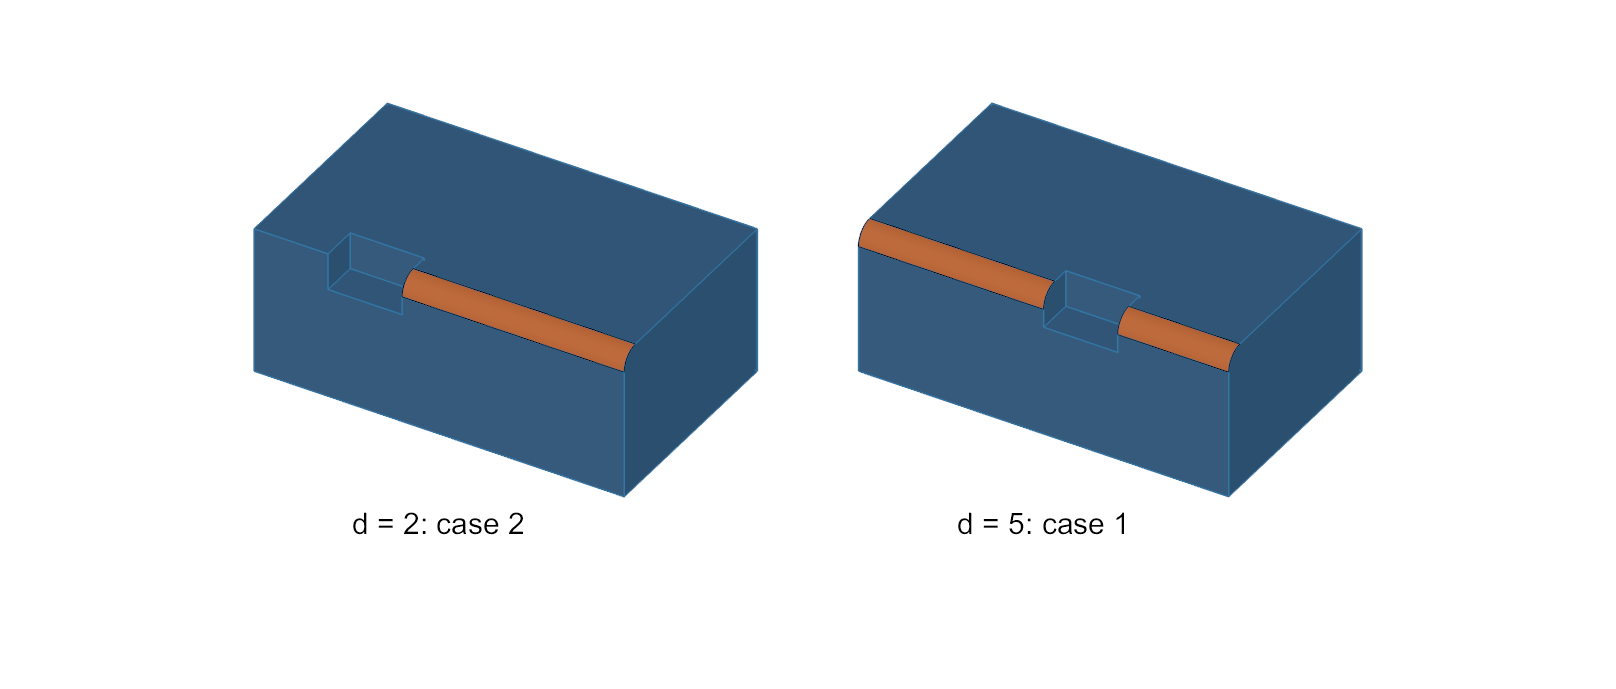
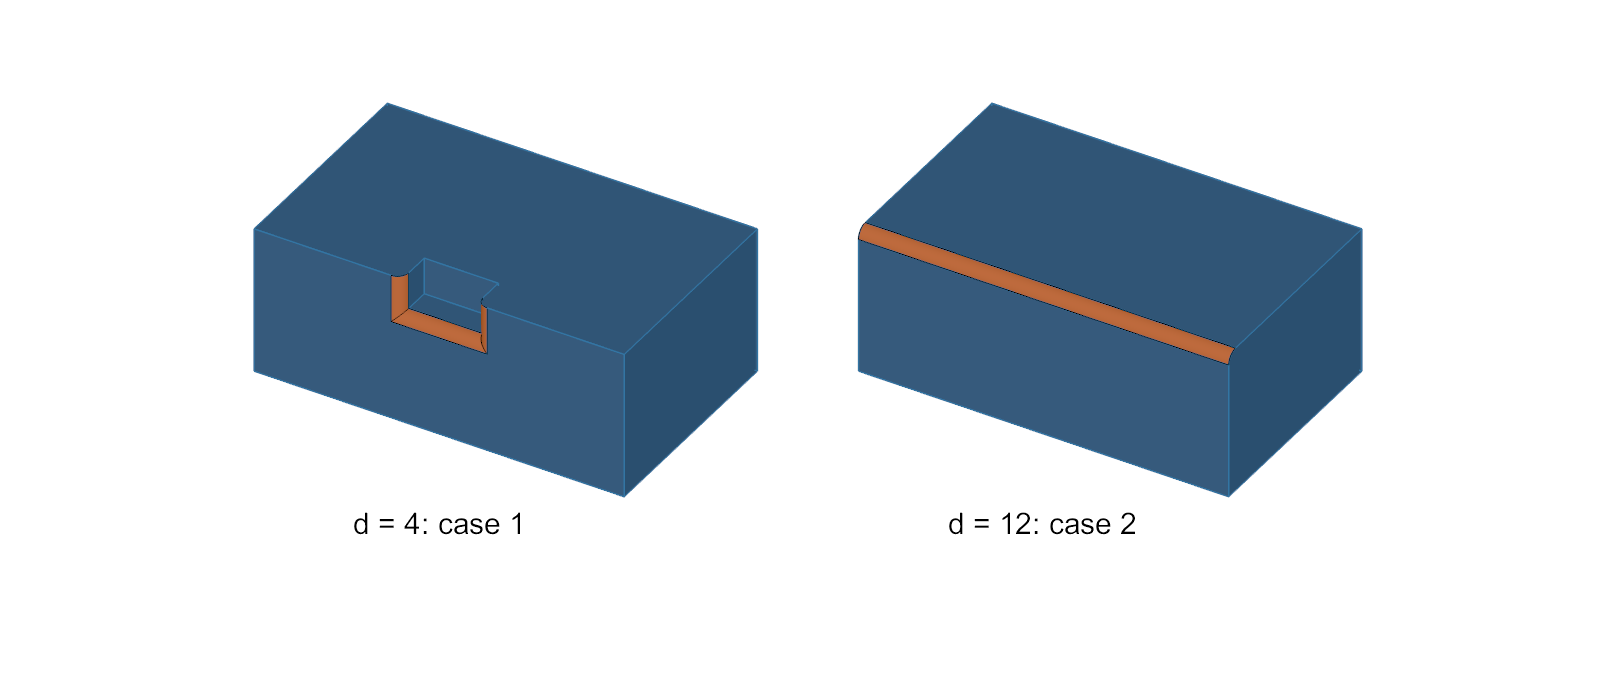
docs: formulate selection cases with predicates on the model
Cases are conditions on the model that can be formulated with any
predicate, not only with the parameters. Rework the example: case 1, the
box B cuts the edge X (a history predicate); case 2, it does not. Cases
are evaluated as Booleans and the selection of the one applying case is
used, so the constant ALWAYS/NEVER predicates are no longer needed. Also
refine the wording on why indices do not necessarily stay valid.

diff --git a/docs/examples/selection_cases_example.cpp b/docs/examples/selection_cases_example.cpp
@@ -1,5 +1,8 @@
-// Selection cases: L = (case_1 && selection_1) || (case_2 && selection_2)
+// Selection cases: L = (Case_1 and Selection_1) or (Case_2 and Selection_2)
 #include <cmath>
+#include <stdexcept>
+#include <utility>
+#include <vector>
 
 #include <BRepGProp.hxx>
 #include <BRepPrimAPI_MakeBox.hxx>
@@ -26,44 +29,65 @@ geoml::ShapePredicate is_face_at(int axis, double value)
     });
 }
 
-// A box with a notch of width 2 at position d in its frontal upper edge X.
-// Modelling intention:
-//   case 1 (d >= 3): fillet both pieces of X
-//   case 2 (d <  3): fillet only the piece of X right of the notch
+// Returns the selection of the one case that applies
+geoml::ShapePredicate select_case(std::vector<std::pair<bool, geoml::ShapePredicate>> const& cases)
+{
+    int n_applying = 0;
+    for (auto const& c : cases) {
+        n_applying += c.first ? 1 : 0;
+    }
+    if (n_applying != 1) {
+        throw std::logic_error("the cases are not mutually exclusive and exhaustive");
+    }
+    for (auto const& c : cases) {
+        if (c.first) {
+            return c.second;
+        }
+    }
+    throw std::logic_error("unreachable");
+}
+
+// A box B, moved along the frontal upper edge X of a box by d, is subtracted
+// from the box. Modelling intention:
+//   case 1, B cuts X:         fillet the edges of the notch on the front face
+//   case 2, B does not cut X: fillet X
 geoml::Shape make_part(double d)
 {
     geoml::Shape box = geoml::create_box(10., 6., 4.);
     geoml::Shape front = box.select_subshapes(is_face_at(1, 0.)).unique_element();
     geoml::Shape top = box.select_subshapes(is_face_at(2, 4.)).unique_element();
-    geoml::Shape right = box.select_subshapes(is_face_at(0, 10.)).unique_element();
     geoml::Shape X = box.select_subshapes(
         geoml::is_edge && geoml::is_subshape_of(front) && geoml::is_subshape_of(top)).unique_element();
 
-    geoml::Shape tool = BRepPrimAPI_MakeBox(gp_Pnt(d, -1., 3.), 2., 2., 2.).Shape();
-    geoml::Shape notched = box - tool;
+    geoml::Shape B = BRepPrimAPI_MakeBox(gp_Pnt(d, -1., 3.), 2., 2., 2.).Shape();
+    geoml::Shape result = box - B;
 
-    // Selections: the pieces of X, and the piece of X that touches the right face
-    geoml::Shape right_now =
-        notched.select_subshapes(geoml::is_face && geoml::is_descendent_of(right)).unique_element();
-    geoml::ShapePredicate pieces_of_X = geoml::is_edge && geoml::is_descendent_of(X);
-    geoml::ShapePredicate right_piece_of_X =
-        pieces_of_X && geoml::has_subshape_that(geoml::is_vertex && geoml::is_subshape_of(right_now));
+    // Cases, formulated with a history predicate: B cuts X if the result
+    // contains a modified descendent of X
+    bool case_1 = !result.select_subshapes(geoml::is_modified_descendent_of(X)).is_empty();
+    bool case_2 = !case_1;
 
-    // Cases: conditions on the parameter only, mutually exclusive and exhaustive
-    geoml::ShapePredicate case_1([d](geoml::Shape const&) { return d >= 3.; });
-    geoml::ShapePredicate case_2 = !case_1;
+    // Selections: the edges shared by the front face and the faces from B,
+    // and the edge X
+    geoml::Shape front_now =
+        result.select_subshapes(geoml::is_face && geoml::is_descendent_of(front)).unique_element();
+    geoml::Shape faces_from_B =
+        result.select_subshapes(geoml::is_face && geoml::is_descendent_of_subshape_in(B));
+    geoml::ShapePredicate selection_1 =
+        geoml::is_edge && geoml::is_subshape_of(front_now) && geoml::is_subshape_of(faces_from_B);
+    geoml::ShapePredicate selection_2 = geoml::is_edge && geoml::is_descendent_of(X);
 
     // The selection criterion L
-    geoml::ShapePredicate L = (case_1 && pieces_of_X) || (case_2 && right_piece_of_X);
+    geoml::ShapePredicate L = select_case({{case_1, selection_1}, {case_2, selection_2}});
 
-    geoml::Shape edges = notched.select_subshapes(L);
-    return geoml::make_fillet(notched, edges, 0.5);
+    geoml::Shape edges = result.select_subshapes(L);
+    return geoml::make_fillet(result, edges, 0.3);
 }
 
 int main()
 {
-    geoml::Shape part_case_2 = make_part(2.); // one edge filleted
-    geoml::Shape part_case_1 = make_part(5.); // two edges filleted
+    geoml::Shape part_case_1 = make_part(4.);  // B cuts X: three edges of the notch filleted
+    geoml::Shape part_case_2 = make_part(12.); // B misses the box: X filleted
 
     return 0;
 }

diff --git a/docs/examples/python_selection_cases_example.py b/docs/examples/python_selection_cases_example.py
@@ -1,18 +1,10 @@
-# Selection cases: L = (case_1 & selection_1) | (case_2 & selection_2)
+# Selection cases: L = (Case_1 and Selection_1) or (Case_2 and Selection_2)
 from geoml import pygeoml
-from geoml.pygeoml import is_edge, is_face, is_vertex
+from geoml.pygeoml import is_edge, is_face
 from OCC.Core.BRepGProp import brepgprop_SurfaceProperties
 from OCC.Core.BRepPrimAPI import BRepPrimAPI_MakeBox
 from OCC.Core.GProp import GProp_GProps
 from OCC.Core.gp import gp_Pnt
-
-# Constant predicates: a case is ALWAYS or NEVER, depending on the parameters
-ALWAYS = is_vertex | ~is_vertex
-NEVER = ~ALWAYS
-
-
-def case(condition):
-    return ALWAYS if condition else NEVER
 
 
 def select_faces(shape, condition):
@@ -35,42 +27,49 @@ def at(axis, value):
     return condition
 
 
+def select_case(cases):
+    """Return the selection of the one case that applies."""
+    assert sum(case for case, _ in cases) == 1, "the cases are not mutually exclusive and exhaustive"
+    return next(selection for case, selection in cases if case)
+
+
 def make_part(d):
-    """A box with a notch of width 2 at position d in its frontal upper edge X.
+    """A box B, moved along the frontal upper edge X of a box by d, is subtracted from the box.
 
     Modelling intention:
-      case 1 (d >= 3): fillet both pieces of X
-      case 2 (d <  3): fillet only the piece of X right of the notch
+      case 1, B cuts X:         fillet the edges of the notch on the front face
+      case 2, B does not cut X: fillet X
     """
     box = pygeoml.create_box(10.0, 6.0, 4.0)
     front = select_faces(box, at(1, 0.0)).unique_element()
     top = select_faces(box, at(2, 4.0)).unique_element()
-    right = select_faces(box, at(0, 10.0)).unique_element()
     X = box.select_subshapes(is_edge & pygeoml.is_subshape_of(front) & pygeoml.is_subshape_of(top)).unique_element()
 
-    tool = pygeoml.Shape(BRepPrimAPI_MakeBox(gp_Pnt(d, -1.0, 3.0), 2.0, 2.0, 2.0).Shape())
-    notched = box - tool
+    B = pygeoml.Shape(BRepPrimAPI_MakeBox(gp_Pnt(d, -1.0, 3.0), 2.0, 2.0, 2.0).Shape())
+    result = box - B
 
-    # Selections: the pieces of X, and the piece of X that touches the right face
-    right_now = notched.select_subshapes(is_face & pygeoml.is_descendent_of(right)).unique_element()
-    pieces_of_X = is_edge & pygeoml.is_descendent_of(X)
-    right_piece_of_X = pieces_of_X & pygeoml.has_subshape_that(is_vertex & pygeoml.is_subshape_of(right_now))
+    # Cases, formulated with a history predicate: B cuts X if the result
+    # contains a modified descendent of X
+    case_1 = not result.select_subshapes(pygeoml.is_modified_descendent_of(X)).is_empty()
+    case_2 = not case_1
 
-    # Cases: conditions on the parameter only, mutually exclusive and exhaustive
-    case_1 = case(d >= 3.0)
-    case_2 = case(d < 3.0)
+    # Selections: the edges shared by the front face and the faces from B, and the edge X
+    front_now = result.select_subshapes(is_face & pygeoml.is_descendent_of(front)).unique_element()
+    faces_from_B = result.select_subshapes(is_face & pygeoml.is_descendent_of_subshape_in(B))
+    selection_1 = is_edge & pygeoml.is_subshape_of(front_now) & pygeoml.is_subshape_of(faces_from_B)
+    selection_2 = is_edge & pygeoml.is_descendent_of(X)
 
     # The selection criterion L
-    L = (case_1 & pieces_of_X) | (case_2 & right_piece_of_X)
+    L = select_case([(case_1, selection_1), (case_2, selection_2)])
 
-    edges = notched.select_subshapes(L)
-    return notched, edges, pygeoml.make_fillet(notched, edges, 0.5)
+    edges = result.select_subshapes(L)
+    return result, edges, pygeoml.make_fillet(result, edges, 0.3)
 
 
-notched, edges, part = make_part(2.0)
-assert edges.size() == 1  # case 2: only the piece right of the notch
+result, edges, part = make_part(4.0)
+assert edges.size() == 3  # case 1: B cuts X, the three edges of the notch
 
-notched, edges, part = make_part(5.0)
-assert edges.size() == 2  # case 1: both pieces
+result, edges, part = make_part(12.0)
+assert edges.size() == 1  # case 2: B misses the box, the edge X
 
 print("OK")

diff --git a/docs/render_example_images.py b/docs/render_example_images.py
@@ -411,7 +411,7 @@ def render_selection_cases():
     trsf.SetTranslation(shift)
 
     scene = Scene(1600, 650)
-    for d, offset, text in ((2.0, None, "d = 2: case 2"), (5.0, trsf, "d = 5: case 1")):
+    for d, offset, text in ((4.0, None, "d = 4: case 1"), (12.0, trsf, "d = 12: case 2")):
         notched, edges, part = ex["make_part"](d)
 
         def place(shapes):

diff --git a/docs/robust_referencing.rst b/docs/robust_referencing.rst
@@ -9,8 +9,7 @@ Why robust referencing matters
 A parametric model is a sequence of modelling operations whose inputs depend
 on parameters. Every time a parameter changes, the whole sequence is evaluated
 again. Many operations need references to subshapes of intermediate results:
-the edges to fillet, the face to attach the next feature to, the faces to
-apply a boundary condition to.
+the edges to fillet, the face to attach the next feature to.
 
 These references must point to the *right* subshape in every evaluation of
 the model: the subshape that the **modelling intention** asks for. The
@@ -20,16 +19,18 @@ for others; the modeller then defines **cases** and a selection for each case
 (see :ref:`selection-cases`).
 
 Referencing a subshape by its index, for example "the third face of the
-result", does not achieve this. The number and the order of the subshapes
-change with the parameters, and the order can even change between program runs
-with the same parameters. A model built on such references silently selects
-the wrong faces as soon as a parameter changes. This is known as the
+result", does not necessarily achieve this. The number and the order of the
+subshapes may change when the topology changes, for example after a Boolean
+operation, and the order can even change between program runs with the same
+parameters. A model built on such references silently selects the wrong faces
+as soon as the topology changes with a parameter change. This is known as the
 *topological naming problem*.
 
 geoml solves it by referencing subshapes by what they *are* rather than by
 where they are stored:
 
-* by their properties and topological relations, using **predicates**,
+* by their topological relations, using **topological predicates**,
+* by their geometric properties, using **geometric predicates**,
 * by their origin in earlier modelling steps, using **history predicates**,
 * by names, using **meta tags** and **tag tracks**.
 
@@ -166,28 +167,29 @@ In general, a selection criterion :math:`L` consists of **cases** and a
 
    L = \bigvee_{i \in C} \left( \mathit{Case}_i \wedge \mathit{Selection}_i \right)
 
-* :math:`\mathit{Case}_i` is a condition on the parameters of the model, e.g.
-  :math:`d < 3`. The cases must be *mutually exclusive and exhaustive*: for
-  every parameter constellation exactly one case applies. The cases split the
-  parameter space into equivalence classes, in each of which the modelling
+* :math:`\mathit{Case}_i` is a condition on the model. It can be formulated
+  with any predicate, for example with history predicates ("the edge
+  :math:`X` gets cut by the box :math:`B`") or directly with the parameters
+  (":math:`d < 3`"). The cases must be *mutually exclusive and exhaustive*:
+  for every parameter constellation exactly one case applies. The cases split
+  the parameter space into equivalence classes, in each of which the modelling
   intention asks for the same selection.
 * :math:`\mathit{Selection}_i` is the predicate that selects the subshapes
   the modelling intention asks for in case :math:`i`.
 
-Both are ``ShapePredicate`` objects, so :math:`L` can be written down in geoml
-literally. A case is a predicate that does not depend on the shape it is
-evaluated for, only on the parameters:
+Because exactly one case applies, :math:`L` is the selection of that case. In
+code, evaluate the cases as Booleans, check that exactly one of them applies
+and select with its selection predicate:
 
-.. code-block:: cpp
+.. code-block:: python
 
-   geoml::ShapePredicate case_1([d](geoml::Shape const&) { return d >= 3.; });
-   geoml::ShapePredicate case_2 = !case_1;
-
-   geoml::ShapePredicate L = (case_1 && selection_1) || (case_2 && selection_2);
+   cases = [(case_1, selection_1), (case_2, selection_2)]
+   assert sum(case for case, _ in cases) == 1  # mutually exclusive and exhaustive
+   L = next(selection for case, selection in cases if case)
 
 The cases should follow the **modelling intention**, not the topology of the
-result. Selections that reference subshapes by their properties, relations and
-history usually stay valid when the topology changes, so a new case is only
+result. Selections formulated with topological, geometric and history
+predicates usually stay valid when the topology changes, so a new case is only
 needed where the intention itself changes. Selecting by index or by other
 topology-dependent properties instead forces a new case for every change of
 the topology: the number of cases grows quickly with the number of parameters,
@@ -205,38 +207,37 @@ cutting a notch into it at position :math:`d`" needs only one case for all
 Example with two cases
 ^^^^^^^^^^^^^^^^^^^^^^
 
-A notch of width 2 is cut into the frontal upper edge :math:`X` of a box at
-position :math:`d`, which splits :math:`X` into a piece left and a piece right
-of the notch. The modelling intention is:
+A box :math:`B` of size 2, moved along the frontal upper edge :math:`X` of a
+box by the parameter :math:`d`, is subtracted from the box. Depending on
+:math:`d`, it cuts a notch into :math:`X` or misses the box. The modelling
+intention is:
 
-* Case 1, :math:`d \geq 3`: fillet both pieces of :math:`X`.
-* Case 2, :math:`d < 3`: the piece left of the notch is shorter than 3 and is
-  not filleted; fillet only the piece right of the notch.
+* Case 1, :math:`B` cuts :math:`X`: fillet the edges of the notch on the front
+  face.
+* Case 2, :math:`B` does not cut :math:`X`: fillet :math:`X`.
 
-The two cases are mutually exclusive and exhaustive. The selections use
-history predicates: the pieces of :math:`X` are the edges that descend from
-:math:`X`, and the piece right of the notch is the one that touches the face
-that descends from the right face of the box.
+The cases are formulated with a history predicate: :math:`B` cuts :math:`X` if
+the result contains a modified descendent of :math:`X`. They are mutually
+exclusive and exhaustive. The selections use topological and history
+predicates: the edges of the notch on the front face are the edges shared by
+the front face and the faces that descend from :math:`B`.
 
 .. literalinclude:: examples/selection_cases_example.cpp
    :language: cpp
    :caption: Selection cases in C++
-
-In Python, functions cannot be wrapped as predicates. A case is therefore
-expressed with the two constant predicates ``ALWAYS`` and ``NEVER``, chosen by
-the condition on the parameters:
 
 .. literalinclude:: examples/python_selection_cases_example.py
    :language: python
    :caption: Selection cases in Python
 
 .. figure:: _static/examples/selection_cases_example.png
-   :alt: The notched box for d = 2 and d = 5
+   :alt: The box for d = 4 and d = 12
    :width: 700px
    :align: center
 
-   Left: :math:`d = 2`, case 2, only the piece right of the notch is filleted.
-   Right: :math:`d = 5`, case 1, both pieces are filleted. The fillet faces
-   are shown in orange.
+   Left: :math:`d = 4`, case 1, :math:`B` cuts :math:`X` and the edges of the
+   notch on the front face are filleted. Right: :math:`d = 12`, case 2,
+   :math:`B` misses the box and :math:`X` is filleted. The fillet faces are
+   shown in orange.
 
 More examples are in :ref:`shapes-examples`.
